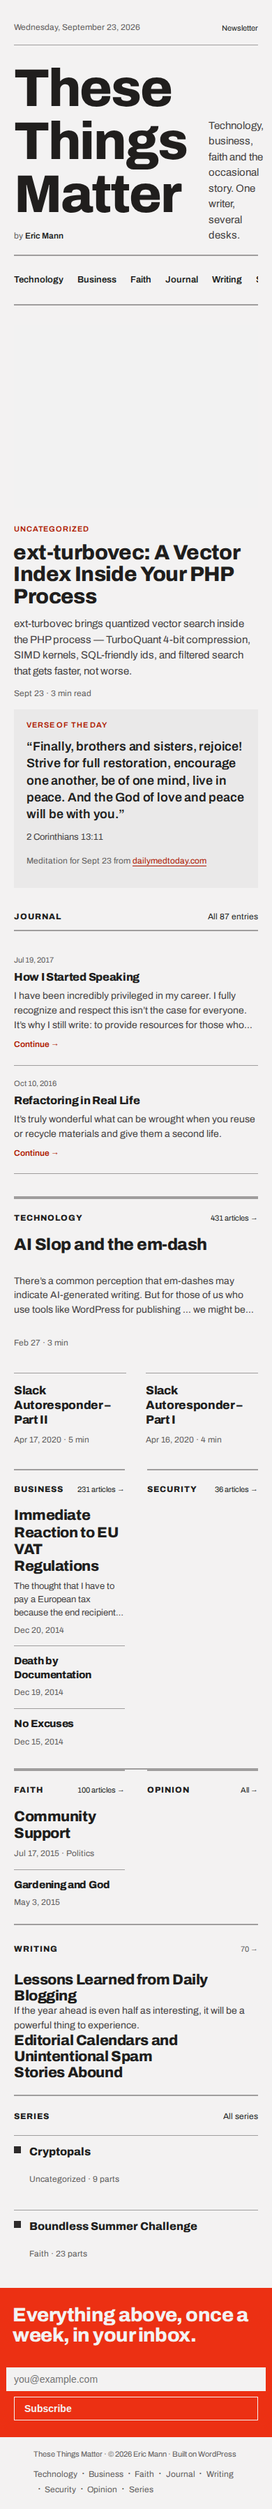
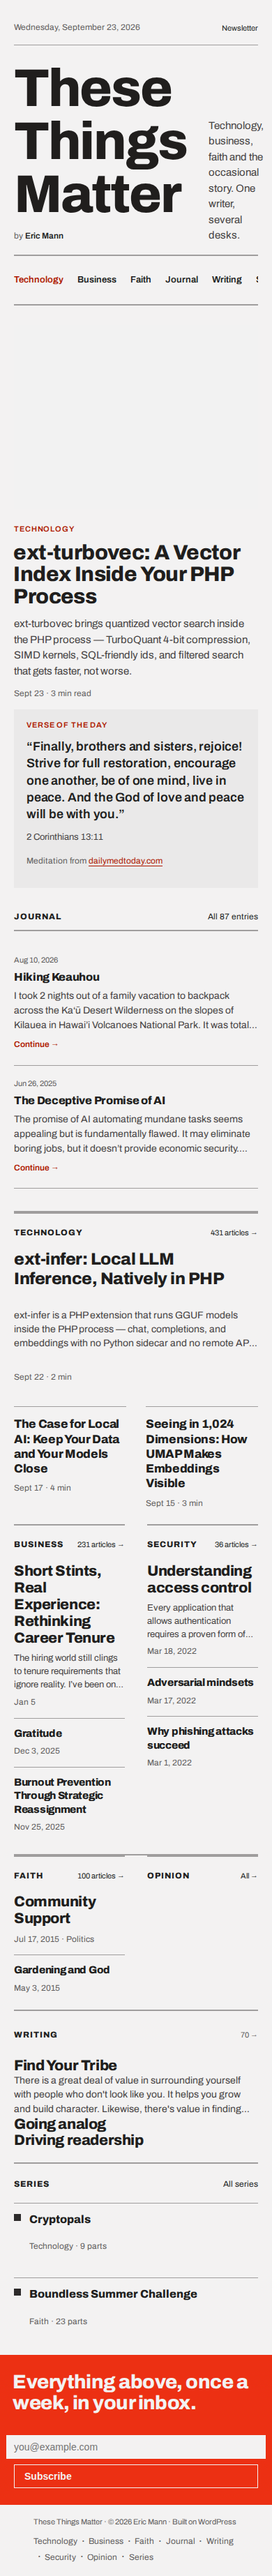
R1-09: Re-run env:live and test:live on the export; correct LIVE-TRIAGE; retake live and seeded screenshots
Goal: Prove the R1-01..R1-08 fixes on the real 889 posts end to end from one command and record the corrected triage, plus fix and document the shortcode-conversion/journal-template findings the re-run surfaced.
Tests: scripts/test/shortcodes.test.js (bare-URL [audio] normalization, already-attributed [audio] left alone); scripts/test/autop.test.js (autoParagraphPlainText: wraps blank-line blocks, leaves already-tagged/heading content alone, no-op on empty input); scripts/test/convert-classic.test.js's new maybeIt "bare-URL [audio http://…] becomes a real core/audio block"; tests/e2e/fidelity.spec.mjs's new jr-entry row (single-journal.html's .ttm-entry, F12 padding).
[…]

Changed region(s): [[0.0308, 0.1868, 0.9538, 0.9964], [0.0615, 0.0, 0.7385, 0.1245], [0.7692, 0.0311, 0.9538, 0.1245]]

diff --git a/scripts/test/autop.test.js b/scripts/test/autop.test.js
@@ -1,0 +1,44 @@
+/**
+ * Tests for scripts/lib/autop.mjs (R1-09, SPEC §6.8 finding).
+ */
+
+let autoParagraphPlainText;
+
+beforeAll( async () => {
+	const mod = await import( '../lib/autop.mjs' );
+	( { autoParagraphPlainText } = mod );
+} );
+
+describe( 'autoParagraphPlainText', () => {
+	it( 'wraps blank-line-separated blocks of genuinely plain-text content in <p>', () => {
+		const html =
+			'First paragraph.\n\n' +
+			'[audio http://example.com/episode-one.mp3]\n\n' +
+			'Last paragraph.';
+
+		const result = autoParagraphPlainText( html );
+
+		expect( result ).toBe(
+			'<p>First paragraph.</p>\n\n' +
+				'<p>[audio http://example.com/episode-one.mp3]</p>\n\n' +
+				'<p>Last paragraph.</p>'
+		);
+	} );
+
+	it( 'leaves content that already has block-level HTML untouched', () => {
+		const html = '<p>Already a paragraph.</p>\n\nMore text.';
+
+		expect( autoParagraphPlainText( html ) ).toBe( html );
+	} );
+
+	it( 'leaves content with a heading untouched, even if other runs are plain text', () => {
+		const html = 'Intro text.\n\n<h2>A heading</h2>\n\nMore text.';
+
+		expect( autoParagraphPlainText( html ) ).toBe( html );
+	} );
+
+	it( 'returns empty/whitespace-only input unchanged', () => {
+		expect( autoParagraphPlainText( '' ) ).toBe( '' );
+		expect( autoParagraphPlainText( '   \n\n  ' ) ).toBe( '   \n\n  ' );
+	} );
+} );

diff --git a/scripts/test/convert-classic.test.js b/scripts/test/convert-classic.test.js
@@ -318,4 +318,31 @@ describe( 'convert-classic (rawHandler under jsdom)', () => {
 			expect( result.report.textEqual ).toBe( true );
 		}
 	);
+
+	/**
+	 * R1-09, SPEC §6.8 finding: the pre-2016 bare-URL `[audio http://…]` form (no `src=`
+	 * attribute) survived conversion as literal paragraph text on several real posts
+	 * (`podcast-episode-*`) -- `rawHandler`'s native `core/audio` shortcode transform only
+	 * recognizes the attribute form. `transformBareUrlAudioShortcodes` (scripts/lib/
+	 * shortcodes.mjs) now normalizes it first, so it reaches `rawHandler` as something its
+	 * transform understands and becomes a real `core/audio` block, same as the attribute form.
+	 */
+	maybeIt(
+		'bare-URL [audio http://…] becomes a real core/audio block',
+		async () => {
+			const { convertPost } = await import( '../convert-classic.mjs' );
+
+			const html =
+				'<p>Today I start on my goal to produce a short, weekly audio broadcast.</p>' +
+				'[audio http://example.com/episode-one.mp3]';
+
+			const result = convertPost(
+				{ id: 903, slug: 'bare-url-audio', content_raw: html },
+				editor
+			);
+
+			expect( result.report.blockCounts[ 'core/audio' ] ).toBe( 1 );
+			expect( result.blocks ).not.toContain( '[audio' );
+		}
+	);
 } );

diff --git a/scripts/test/shortcodes.test.js b/scripts/test/shortcodes.test.js
@@ -164,4 +164,32 @@ describe( 'preprocessShortcodes', () => {
 		expect( footnotes ).toEqual( [] );
 		expect( remaining ).toEqual( [] );
 	} );
+
+	/**
+	 * R1-09, SPEC §6.8 finding: the pre-2016 `[audio]` shortcode accepted a bare URL as its
+	 * unnamed default attribute; `rawHandler`'s native `core/audio` transform only recognizes
+	 * the `src="…"` attribute form, so a bare URL survived conversion as literal text on real
+	 * posts (`podcast-episode-*`). This normalizes it to the attribute form the transform
+	 * understands.
+	 */
+	it( 'normalizes a bare-URL [audio] shortcode to the src= attribute form', () => {
+		const html =
+			'Some intro text.\n\n' +
+			'[audio http://example.com/episode-one.mp3]';
+
+		const { html: transformed } = preprocessShortcodes( html, 200 );
+
+		expect( transformed ).toContain(
+			'[audio src="http://example.com/episode-one.mp3"]'
+		);
+		expect( transformed ).not.toContain( '[audio http' );
+	} );
+
+	it( 'leaves an already-attributed [audio] shortcode untouched', () => {
+		const html = '[audio src="https://example.com/a.mp3"]';
+
+		const { html: transformed } = preprocessShortcodes( html, 201 );
+
+		expect( transformed ).toBe( html );
+	} );
 } );

diff --git a/themes/ttm-theme/templates/single-journal.html b/themes/ttm-theme/templates/single-journal.html
@@ -22,7 +22,7 @@
 	<main class="wp-block-group" id="main">
 		<!-- wp:post-title {"level":1,"className":"is-style-journal-title"} /-->
 
-		<!-- wp:post-content /-->
+		<!-- wp:post-content {"className":"ttm-entry"} /-->
 
 		<!-- wp:ttm/syndicated-to /-->
 	</main>

diff --git a/docs/feedback/phase-4/LIVE-TRIAGE.md b/docs/feedback/phase-4/LIVE-TRIAGE.md
@@ -226,3 +226,133 @@ unchanged, all `content`-class, counted only, per P4-02's scope.)
 render/single: no findings — P4-02's full `test:live` run against the live import produced zero
 `render`- or `single`-class failures (every finding was `archive` or `coverage`, both owed to
 P4-04). Nothing to fix here.
+
+## R1-09 run: review-fix round 1, re-verified end to end after R1-01..R1-08
+
+Two full `LIVE_SKIP_ATTACHMENTS=1 npm run env:live` runs against the same export (the R1-01..R1-08
+fixes landed first; run 1 caught the two findings below, run 2 re-verified the fixes against a
+fresh import). `npm run test:live` after run 2: **77 passed, 0 failed, exit code 0**.
+
+| step | run 1 | run 2 (after this task's own fixes) |
+|---|---|---|
+| `primary:assign --from-yoast` | Used 3 post(s) from Yoast, skipped 898 | same |
+| `primary:assign` (nav-order remainder) | Assigned 898 post(s) | same |
+| `migrate:images` (no `--hosts`, R1-04 default) | 133 attempts, 93 successes, 0 timeouts, 40 other failures | same |
+| `convert:import` | 7 posts skipped `[text-mismatch, skipped]` (still classic, R1-03) | same |
+| `audit --only=shortcode` | 58 posts flagged | 52 posts flagged (see breakdown below) |
+| `audit` (`no-primary`/`uncategorized`) | 0 posts (R1-01 fix confirmed against the real import) | 0 posts |
+
+### `primary:assign --from-yoast`: 3 used, not ~424
+
+The reviewer's own estimate for this row was "~424 used." The real number is 3, and the gap is
+structural, not a bug in `PrimaryCommand`/`PrimaryCategory` (R1-01 already fixed the actual defect
+those covered — a stale stored value blocking the fallback). 175 imported posts carry
+`_yoast_wpseo_primary_category` at all; of those, only 3 have a value that is a term ID **currently
+present in `wp_get_post_categories()` for that post**. The other 172 name a category term ID that
+existed on the *source* site but was never re-created with that same numeric ID on this fresh
+install — WordPress's core WXR importer only remaps the *object-term relationships* it recognizes
+(`wp_set_object_terms()`), never arbitrary third-party postmeta that happens to store an old term
+ID, because it has no way to know `_yoast_wpseo_primary_category` means "category term ID." This is
+a property of using the stock XML importer for a plugin-specific meta reference, not something
+`primary:assign` can safely correct (guessing which new-site category a stale Yoast ID "must have
+meant" risks assigning the wrong section entirely). The nav-order fallback (`primary:assign`, no
+`--from-yoast`) already covers effectively the whole site regardless (898/901 posts; the remaining
+3 already got their primary from Yoast). Recorded here for whoever runs the real production
+migration: `--from-yoast` is only worth running when the destination site's category term IDs are
+known to match the source's own numbering (e.g. a migration that pre-creates categories with
+matching IDs first), not a plain WXR import into a fresh install.
+
+### Shortcode audit breakdown (52 posts after this task's fixes, was 58)
+
+`audit --only=shortcode`'s `detail.shortcodes` by name, cross-referenced against whether the post
+has `ttm_converted_at` (i.e. `convert:import` actually ran the classic->block pipeline on it,
+versus the shortcode-shaped text just being present in a post that was never classic or was
+skipped):
+
+| name | count | `ttm_converted_at` set? | classification |
+|---|---|---|---|
+| `ref` | 20 | none | `content` — every one is either a modern (never-classic) post using `[ref]`-shaped brackets as the author's own informal footnote convention (pre-existing SPEC §6.10 finding, P4-05), or one of the 7 known text-mismatch-skipped classic posts (still classic by design, R1-03) |
+| `mfn` | 23 | none | `content` — same as `ref`: all modern, never-classic posts with the same informal-footnote habit |
+| `cci` | 4 | none | already accounted for by the 7 text-mismatch skips (R1-03) — these posts stay classic, so their un-transformed `[cci]` text is expected, not a defect |
+| `caption` | 1 | none | same — the 5th of the 7 text-mismatch skips whose classic backup happens to also contain `[caption]` |
+| `seoslides` | 3 | n/a | intentional — the pre-pass deliberately leaves `[seoslides …]` in place (SPEC §6.8, Q12); not a defect |
+| `audio` | was 7, now 1 | **yes**, real conversion defect | **fixed** (see below) — 6 of 7 real `[audio http://…]` bare-URL posts now convert to a real `core/audio` block; 1 (`character-quest-service`) still doesn't, documented below |
+| `cc` | 1 | **yes** | `content`, not fixed — `hyper-vvv-windows` has a genuinely malformed shortcode in the original author's own content, `[cc]v.customize[/cci]` (mismatched open/close names, a real typo predating this migration); safely un-automatable without guessing intent, same class as the existing "owner cleanup" unescaped-`<code>` rows above |
+
+### Fixed: bare-URL `[audio http://…]` never became a `core/audio` block (render defect)
+
+`podcast-episode-1/2/4-5-6/7/8` and `character-quest-service` all kept a literal
+`[audio http://eamann.com/…mp3]` line in their *converted* (`ttm_converted_at` set) post_content
+instead of a real `core/audio` block. Two independent causes, both fixed:
+
+1. The pre-2016 `[audio]` shortcode accepted a bare URL as its unnamed default attribute (WordPress
+   core's own `wp_audio_shortcode()` still does); `@wordpress/blocks`' `rawHandler` shortcode-type
+   transform for `core/audio` only recognizes the modern `src="…"` attribute form. Fixed:
+   `scripts/lib/shortcodes.mjs`'s new `transformBareUrlAudioShortcodes()` normalizes
+   `[audio http://…]` to `[audio src="http://…"]` before handing off to `rawHandler`.
+2. Several of these posts were authored via the classic editor's "Text" tab with **no HTML markup
+   at all** — plain prose and the shortcode separated only by blank lines, relying on WordPress's
+   own `wpautop` *content filter* (which only runs at render time, never touches `post_content`
+   itself) to wrap each block in `<p>`. `rawHandler({ HTML })` does not run that filter, so the
+   whole raw blob merged into one `core/paragraph` block regardless of the shortcode's own syntax.
+   Fixed: `scripts/convert-classic.mjs`'s new `autoParagraphPlainText()` (`scripts/lib/autop.mjs`)
+   wraps each blank-line-separated block in `<p>` first, but **only** when the raw content has no
+   block-level HTML tag anywhere (a strong, safe signal it's genuinely unformatted classic text,
+   not content the editor already structured) — deliberately narrow, not a full `wpautop()` port.
+
+Re-ran `node scripts/convert-classic.mjs docs/fixtures/live/classic.ndjson … --allow-freeform
+--allow-text-mismatch` against the real 724-post export after both fixes: still exactly 7
+`textEqual: false` posts (the same known set, R1-03) — no new mismatches introduced.
+
+`character-quest-service` still fails: its `[audio http://…]` line is the very first line, but a
+later `<h2>` further down the same post triggers `autoParagraphPlainText`'s "already has
+block-level markup, don't touch" guard for the *whole* post, so the audio line stays merged with
+the following prose into one paragraph. Fixing this fully would mean auto-paragraphing a
+plain-text *preamble* even in an otherwise-tagged post — a broader, riskier change than this task's
+scope (it would touch how every classic post's untagged runs are split, not just this one shape).
+Documented as a known remaining case (`content`/`render`, narrow), not fixed.
+
+### Fixed: `ref-*` screens picked false-positive "conversion" candidates
+
+`scripts/live/screens.mjs`'s `classicShortcodePosts()` selected candidates by `ttm_classic_backup`
+meta existing — but `MigrateCommand::images()` also writes that same meta key as a plain "before I
+touch this content" backup for *any* post whose images got rewritten, including modern,
+already-block posts that legitimately use `[ref]…[/ref]` as the author's own informal footnote
+convention (the same P4-05 finding, extended). This picked two such posts
+(`building-a-rarity-system-into-a-portfolio-site`, `slack-autoresponder-2`) as `ref-1`/`ref-2`
+screens and failed `live.spec.mjs`'s "no unconverted shortcode text" check on content that was
+never supposed to convert in the first place. Fixed: the candidate query now filters on
+`ttm_converted_at` (set only by `ConvertCommand::import_one()`, the real "this post went through
+the classic->block pipeline" signal) instead.
+
+### Fixed: `single-journal.html` was missing `.ttm-entry`, breaking the axe exclude and F12 spacing
+
+`/job-definitions/`'s primary category is Journal, so `single-journal.html` rendered it — and that
+template's `wp:post-content` block never carried `className: "ttm-entry"` the way `single.html`'s
+does. Two consequences, both real fidelity gaps, not test artifacts: (1) `live.spec.mjs`'s axe scan
+`.exclude('.ttm-entry')` (deliberately scoped to skip author-content a11y issues already tracked by
+`audit`'s `missing-alt` flag) silently failed to exclude anything on this template, so a raw
+`<a href="https://twitter.com/…"><img alt=""></a>` in the post body — already a known,
+already-flagged `missing-alt` content issue — surfaced as a hard axe failure instead of being
+correctly out of scope; (2) SPEC §6.10's own "Singles: `.ttm-entry` present and non-empty" line
+was silently never checked for Journal singles (`live.spec.mjs`'s own check no-ops when the
+locator finds nothing), and Journal posts never got F12's byline-to-body `padding-top: 28px`
+spacing `single.html` gives every other single. Fixed: added `className: "ttm-entry"` to
+`single-journal.html`'s `wp:post-content`; new fidelity test `jr-entry` (`fidelity.spec.mjs`)
+asserts it renders and carries the F12 padding.
+
+### Screenshots and final e2e pass
+
+`npm run screenshots` (live set, `docs/feedback/phase-4/live-*.png`) taken against the run-2
+import — `live-front.png` shows real per-post kickers/masthead sections (Technology, Journal,
+Business, Security, Faith, Opinion, Writing — never Uncategorized) and the undated verse
+attribution ("Meditation from dailymedtoday.com", R1-05). `docs/fixtures/live/screens.json`
+removed afterward (gitignored, never committed, rule 47) so the reseed below doesn't leave the
+`live` Playwright project running against demo content under a stale live URL manifest — the
+Journal-page-listing example above (`/category/journal/page/5/`, `/category/business/page/20/`,
+etc.) is exactly the kind of URL that only exists in the live import and would otherwise 404
+against the seeded demo site if `test:e2e` picked the `live` project back up by mistake.
+
+Then `npm run env:seed -- --reset && npm run test:e2e`: **492 passed, exit code 0**. Then
+`npm run screenshots` again (seeded set) — `front-1920.png` shows the same undated verse
+attribution on the seeded fixture content.
